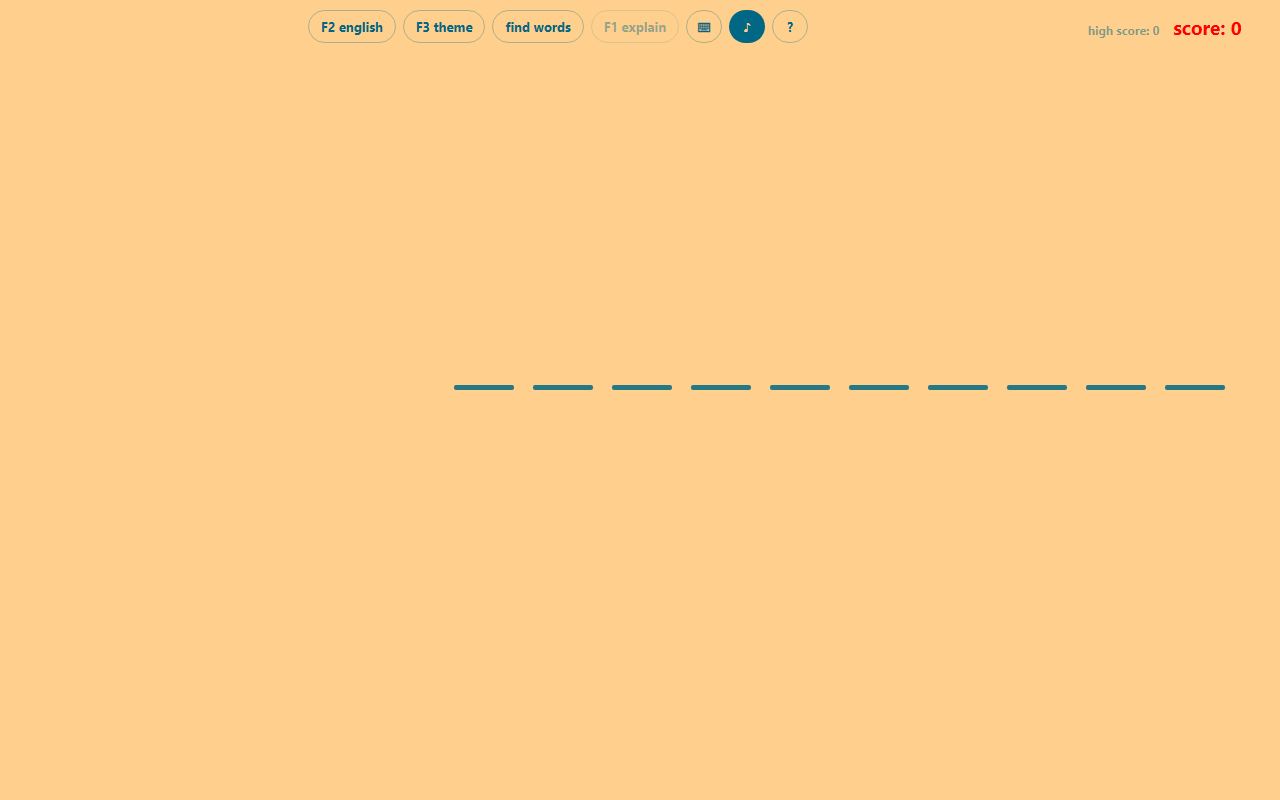
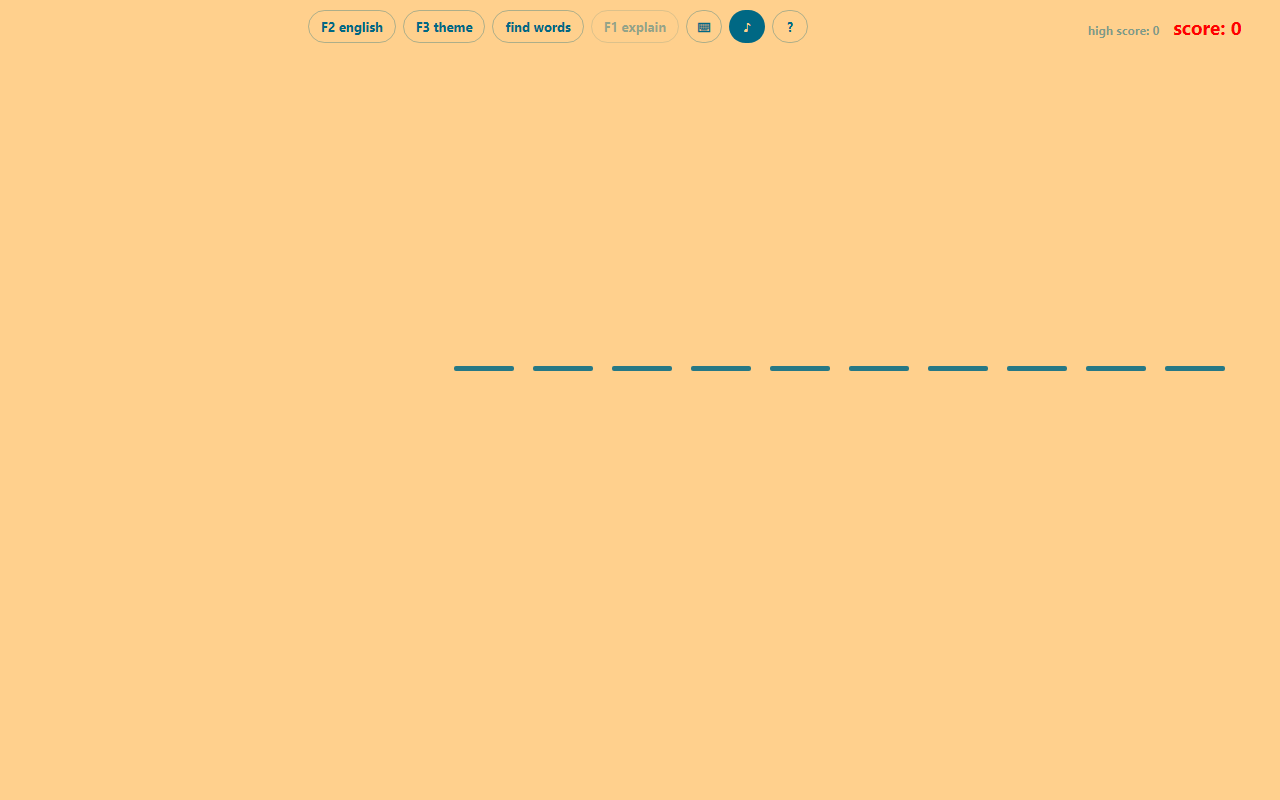
Desktop keys big but not bold; the drawing keeps its room; used letters readable
- the desktop keyboard sets its key letters at weight 400, not 800: 98x57px keys with
  24px regular letters, measured at 800, 620 and 1080px tall windows
- the page is a fixed-height flex column and the gallows is sized by the space that
  is left instead of by its own width, so there is no special rule making the drawing
  smaller when the keyboard is asked for: at 1920x1080 it measures 312x520 with the
  keyboard on or off, and it gives way only where the window is too short for both
  (411 -> 373 at 1280x800), with no scrolling in any case
- with no on-screen keyboard the record of used letters is the only place to read them:
  24px letters at a normal weight, a clear gap below the word row (49px measured),
  the phone keyboard and layout untouched
- the probe reports the drawing box, the used-letters box and a key as
  [w, h, font-size, font-weight], and takes a fixture name; qa/wide-kbd.png is the
  1080p keyboard state kept next to the 800px one as the evidence pair

Changed region(s): [[0.3438, 0.4375, 0.9688, 0.5]]

diff --git a/styles.css b/styles.css
@@ -48,7 +48,11 @@ body {
 
 body {
   overscroll-behavior: none;
-  min-height: 100dvh;
+  /* the page is the window, not a document that grows: with a definite height the
+     flex column can hand the remaining room to the board, which is what lets the
+     drawing keep its size until something genuinely needs that room */
+  box-sizing: border-box;
+  height: 100dvh;
   display: flex;
   flex-direction: column;
   align-items: center;
@@ -207,13 +211,17 @@ body {
 }
 
 /* -------------------------------------------------------- tried letters, text */
-/* secondary on purpose: the word in play must stay the loudest thing */
+/* secondary to the word in play, but still comfortably readable: this is the record
+   of the letters used when there is no on-screen keyboard to read them from, and the
+   source game draws them at a size close to the word's own. It sits clearly below the
+   word, because that is the thing you are looking at. */
 
 .tried {
   min-height: 1.2em;
   max-width: 100%;
+  margin-top: clamp(14px, 4.5vh, 48px);
   text-align: center;
-  font-size: clamp(13px, 1.7vw, 21px);
+  font-size: clamp(16px, 2.6vw, 24px);
   letter-spacing: 0.14em;
   color: var(--faint);
   word-break: break-all;
@@ -369,9 +377,10 @@ body {
 }
 
 /* The on-screen keyboard on a desktop is there because it was asked for, and at that
-   size there is room for keys an open hand can aim at. The word is still several
-   times taller than a key glyph: at this width even an eighteen-letter word gets
-   letters around 35 px. */
+   size there is room for keys an open hand can aim at — large, but set at a normal
+   weight, because a bold letter on a key is noise rather than a letter you read.
+   The word is still several times taller than a key glyph: at this width even an
+   eighteen-letter word gets letters around 35 px. */
 @media (min-width: 901px) {
   .keyboard {
     width: min(1060px, 100%);
@@ -389,18 +398,29 @@ body {
     height: clamp(52px, 8dvh, 68px);
     border-radius: 8px;
     font-size: 24px;
+    font-weight: 400;
   }
 
   .kbd-row-extra .key {
     max-width: 88px;
     height: clamp(46px, 7dvh, 60px);
     font-size: 21px;
+    font-weight: 400;
   }
 
-  /* the gallows is the part of the page that gives: when the keyboard has been asked
-     for on a desktop it steps back, so nothing on the page has to scroll for it */
-  body[data-kbd="on"] .gallows {
-    max-height: min(34dvh, 340px);
+  /* Nothing here is asked to step back for the keyboard. The drawing is sized by the
+     room the page has rather than by its own width, so the gallows keeps the height it
+     had until the keyboard genuinely needs some of that room — on a 1080p window it
+     measures the same whether the keyboard is on or off. */
+  .board {
+    grid-template-rows: minmax(0, 1fr);
+  }
+
+  .gallows {
+    width: auto;
+    max-width: 100%;
+    height: 100%;
+    margin: 0 auto;
   }
 }
 

diff --git a/README.md b/README.md
@@ -57,8 +57,9 @@ There is no build step and no server is required.
   sized for a thumb: the icon buttons are 46 px squares with 21 px glyphs, and the music
   note is set at 30 px because that pictogram is far sparser than the keyboard one and
   only reads at the same size that way. The word being
-  guessed is the largest element at every screen size; the gallows and the letters already
-  tried are drawn smaller around it.
+  guessed is the largest element at every screen size; the gallows and the record of the
+  letters already tried are drawn around it, smaller than the word but still large enough
+  to read from across a table.
 - **The word takes the room it is given.** The slot pitch is the width of the play area
   divided by the number of letters in the word on the board, limited by a share of the
   screen height and by 110 px; the letter size is then measured against the widest glyph
@@ -83,12 +84,18 @@ There is no build step and no server is required.
   beep and a miss gets the low long one, which is the way it reads.
 - **The on-screen keyboard sits at the bottom and replaces the "letters you tried"
   line** while it is shown — it already shows every letter used, greyed the same way
-  whether it was in the word or not. With a physical keyboard in play that line stays.
-  Asked for on a desktop it is a keyboard sized for a hand, not a thumbnail: keys about
-  98 × 57 px (up to 68 px tall on a tall window, and never below 52 px on a short one)
-  with 24 px letters, and the gallows steps back so that the page never scrolls for it.
-  A phone keeps its thumb-sized 46 px keys. Even then the word is several times taller
-  than a key glyph: at that width an eighteen-letter word still gets 37 px letters.
+  whether it was in the word or not. With a physical keyboard in play that line stays,
+  and it is set to be read: 24 px letters at a normal weight, with a clear gap under the
+  word row (measured 49 px at 1280 × 800) rather than crowded against it.
+  Asked for on a desktop, the keyboard is sized for a hand, not a thumbnail: keys about
+  98 × 57 px (up to 68 px tall on a tall window, never below 52 px on a short one) with
+  24 px letters at a normal weight — a bold letter on a key is noise, not a letter you
+  read. A phone keeps its own 46 px thumb keys, unchanged.
+  Nothing is asked to step back for it either: the page is a fixed-height flex
+  column and the drawing is sized by the room that leaves, so at 1920 × 1080 the gallows
+  measures 312 × 520 whether the keyboard is on or off, and it only gives way when a
+  window is genuinely too short for both (411 → 373 px at 1280 × 800). The page does not
+  scroll in any of these cases.
 - **The toggles show what they are doing.** The keyboard and the sound chip take the same
   filled on-state, so "sound is on" is visible before anything is pressed, and switching
   sound back on answers with one beep.
@@ -106,7 +113,7 @@ There is no build step and no server is required.
 node tools/verify-parity.mjs
 ```
 
-89 checks over nine areas: the dictionary payloads and filter, the word-finder scan,
+91 checks over nine areas: the dictionary payloads and filter, the word-finder scan,
 all 13 palettes, the game rules, the saved-file format, Polish collation, page wiring,
 and the interface rules above (one used-letter state, the keyboard replacing the tried
 list, no restart control, all controls and the score in the top bar, the word sized to
@@ -114,16 +121,20 @@ the space it is given and measured against the widest glyph, a filled slot drawi
 bar, the two beeps swapped, touch-sized controls and a touch-sized Continue button, an
 end-of-word message that mentions no keys on a touch device, no F10 printed on a button,
 the sound chip carrying the same on-state as the keyboard chip, a desktop keyboard sized
-for a hand with the gallows stepping back for it, every readable text on the page smaller
+for a hand with its letters at a normal weight, a drawing sized by the room the page has
+rather than one made smaller for the keyboard, a used-letters line large enough to read
+and set below the word, every readable text on the page smaller
 than the word — the pictogram chips are exempt, being controls in fixed boxes rather than
 content). The expected values were measured by running the upstream Python over these
 exact dictionary files.
 
 `node tools/qa-probe.mjs [fixture]` prints what the running page actually measures: box
-geometry for the app, the play area, the word row, the controls in the top bar and the
-keyboard; the state a reload would find in `localStorage`; the computed opacity of a
-filled slot's bar; whether the page scrolls; the end-of-word line as the page wrote it;
-the size of the Continue button; and — after playing six words out and dealing new ones —
+geometry for the app, the play area, the word row, the drawing, the controls in the top
+bar and the keyboard (a key as `[width, height, font-size, font-weight]`); the box,
+computed size and distance below the word row of the used-letters line; the state a
+reload would find in `localStorage`; the computed opacity of a filled slot's bar; whether
+the page scrolls; the end-of-word line as the page wrote it; the size of the Continue
+button; and — after playing six words out and dealing new ones —
 a sample per word of `[letters, slot pitch, letter size, row width]`. A fixture may be
 named to measure a state: `node tools/qa-probe.mjs _qa_kbd.html` measures the desktop
 keyboard while it is shown. What has to hold:
@@ -133,8 +144,11 @@ keyboard while it is shown. What has to hold:
   reading `0`;
 - `scroll` equal to `inner` at every window size, with the keyboard shown or hidden;
 - a phone's icon buttons measuring 46 px with the note glyph larger than the rest, and a
-  desktop's keys about 98 px wide and clamped in height, so even a 620 px-tall window
-  holds the whole page.
+  desktop's keys about 98 px wide at a normal letter weight, so even a 620 px-tall window
+  holds the whole page;
+- the drawing measuring the same for `_qa_mid.html` and `_qa_kbd.html` at 1920 × 1080
+  (312 × 520 both) and giving way only when the window is too short for both; the used
+  letters reading 24 px and sitting some 50 px clear of the word row.
 
 ### screenshots
 
@@ -149,6 +163,11 @@ msedge --headless=new --disable-gpu --no-first-run --hide-scrollbars \
   --window-size=1280,800 --virtual-time-budget=25000 \
   --screenshot=qa/desktop-mid.png file:///…/_qa_mid.html
 ```
+
+The two `_qa_kbd.html` shots — `qa/desktop-kbd.png` at 1280 × 800 and `qa/wide-kbd.png`
+at 1920 × 1080 — are kept side by side because together they are the evidence for the two
+claims above: the key letters are large at a normal weight, and the drawing is the same
+size with the keyboard on as with it off.
 
 Headless Chromium always reports a fine primary pointer whatever the window size, so a
 fixture name ending in `-touch` (`win-touch`, `lost-touch`) seeds the same board with
